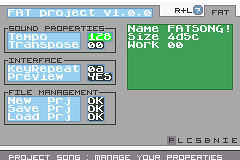
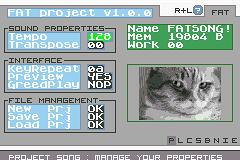
Documentation et smart allocate moins bourrin.

diff --git a/manual/FAT_documentation_FR.tex b/manual/FAT_documentation_FR.tex
@@ -782,9 +782,13 @@
 
         \paragraph{Transpose} Réglez la transposition de tout le projet.
         
-        \paragraph{"Keyrepeat" (temps de répétition)} Ce paramètre permet de régler le temps d'attente entre chaque appui d'une touche. Plus cette valeur est grande, plus l'interface est lente. 
+        \paragraph{"Keyrepeat" (temps de répétition)} Ce paramètre permet de régler le temps d'attente entre chaque appui d'une touche. Plus cette valeur est grande, plus l'interface est lente.
 
-        \paragraph{"New Prj"} Crée un nouveau projet. Attention, les données non enregistrées seront impitoyablement effacée. 
+        \paragraph{Preview} Réglez ce paramètre à YES pour demander à \FAT de jouer la note dès qu'elle est écrite.
+
+        \paragraph{GreedPlay} Si activé le GreedPlay force \FAT à toujours chercher à jouer la première séquence disponible dans un ensemble et ce peu importe la ligne sur laquelle vous vous trouvez. Ex : posez plusieurs séquences (avec des notes à lire) à la suite, de la ligne 0 à 5, puis positionnez vous sur la ligne 3. Pressez START. Si le greedPlay est activé, la lecture ne commencera pas depuis la ligne 3 mais depuis la 0.
+
+        \paragraph{"New Prj"} Crée un nouveau projet. Attention, les données non enregistrées seront impitoyablement effacées, écrasées, broyées, massacrées.
         
         \paragraph{"Save PRJ" (sauvegarder)}  Affiche l'écran de sauvegarde (cf \ref{filesystem}). Cette version de \FAT reste expérimentale en terme de gestion de la sauvegarde.
         
@@ -869,10 +873,68 @@
     \ColoredAnnotation{Cet écran n'est pas encore programmé. Pour ceux qui connaissent LSDJ, il s'agira de l'équivalent des TABLES}
     
     \subsection{L'écran LIVE}
-    
-    EPIC TODO
-    
-    \subsection{L'écran COMPOSER}  
+
+    Ici, vous allez pouvoir jouer votre chanson comme vous le voulez. C'est ce mode qui est à priviligier si vous voulez mouiller le maillot sur scène. Si vous préférez simplement appuyer sur START dans l'écran SONG et danser avec le public, libre à vous ! Le mode LIVE est là pour vous permettre de modifier la mécanique de vos morceaux.
+
+    \Image{images/screen_live}{1.0}{L'écran LIVE se présente comme l'écran SONG}
+
+    Le séquenceur est à nouveau affiché mais cette fois il n'est pas question d'éditer les séquences sur le tableau.
+    Par contre vous allez pouvoir démarrer chacun des channels dans l'ordre qui vous chante. Une fois un channel démarré, il est possible d'effectuer plusieurs actions :
+    \medskip
+    \begin{itemize}
+        \item{modifier le volume du channel}
+        \item{changer la transposition sur le channel}
+        \item{stopper sa lecture}
+    \end{itemize}
+    \medskip
+    Notez que l'écran LIVE propose deux modes : le mode MANUAL (MAN) et le mode AUTO (AUT).
+    En mode MANUAL, FAT n'avance PAS dans le séquenceur. La même séquence sur le channel est rejouée à l'infini: c'est à vous de faire progresser le morceau.
+    A l'inverse, en mode AUTO, FAT se comporte comme dans l'écran SONG : tous les channels en cours de lecture progressent normalement.
+    Attention, en mode AUTO, si aucun channel ne joue et que vous appuyez sur START, alors TOUS les channels se lancent et s'arrêtent en même temps.
+
+    % Configuration du tableau
+    \tablehead{\hline \rowcolor{headertab} {\bf Touche(s)} & {\bf Effet} \\ \hline}
+    \tabletail{\hline \multicolumn{2}{|l|} {\small ...} \\ \hline}
+    \tablelasttail{\hline}
+    \begin{supertabular}{|l|p{11cm}|}
+    \hline
+        {\bf SELECT} & Passer en mode popup \\
+        \hline
+        {\bf R+L} & Afficher l'écran d'aide \\
+        \hline
+        {\bf START} & MODE AUTO - SON STOPPÉ - Lance la lecture de tous les channels \\
+        \hline
+        {\bf START} & MODE AUTO - SON DEMARRÉ - Stoppe la lecture de tous les channels \\
+        \hline
+        {\bf START} & MODE MANUAL - Lance/arrête la lecture du channel sous le curseur \\
+        \hline
+        {\bf R+BAS} & Passer dans la partie configuration de l'écran (modification du volume, tsp, tempo et mode) \\
+        \hline
+        {\bf R+HAUT} & Passer dans la partie séquenceur de l'écran \\
+        \hline
+        {\bf A+DIRECTION} & DANS LA PARTIE CONFIGURATION - Modifie la valeur du paramètre sous le curseur \\
+    \hline
+    \end{supertabular}
+
+    \subsubsection{Application du volume}
+
+    Lorsque vous changez le volume sur le channel, \FAT calcul un nouveau volume à appliquer sur chaque note. \medskip
+
+    \begin{itemize}
+        \item{si la valeur est "df" dans l'écran LIVE, alors le volume de l'instrument ou celui d'une éventuelle commande est appliqué. "df" = "defined"}
+        \item{si la valeur est autre que "df", alors le volume est une moyenne calculée entre la valeur écrite dans l'instrument (ou dans une commande) et celle demandée dans le LIVE}
+    \end{itemize}
+    \medskip
+
+    Un volume de 00 n'éteint donc pas forcément le channel ! Il n'y a pour le moment pas de mode MUTE.
+
+    \subsubsection{Application du transpose}
+
+    Comme pour le volume, \FAT calcul la valeur de transpose à appliquer en fonction d'autres paramètres. La valeur de transpose à prendre en considération se calcule comme suit :
+
+    \ColoredAnnotation{transpose du projet + transpose sur le block + transpose sur le live = transpose}
+
+    \subsection{L'écran COMPOSER}
     
     Imaginez cet écran comme un mini-piano: le COMPOSER va transformer votre Gameboy Advance en machine a improviser des sons !
     
@@ -922,17 +984,21 @@
   
   \ColoredAnnotation{Désolé ! Pas beaucoup d'effets pour le moment: il va falloir s'en contenter pour l'heure. Plusieurs commandes sont aux programme et débarqueront dans les versions suivantes. Patience !}
   
-  \subsection{K (KILL)}
+  \subsection{KL (KilL)}
   
   Cette commande permet de stopper (kill = tuer) le son. 
-  \ColoredAnnotation{La valeur pour ce paramètre n'est pas encore prise en compte}
-  
+  \ColoredAnnotation{Pas de valeur possible pour le moment pour ce paramètre.}
+
+  \subsection{VO (VOlume)}
+
+  Cette commande permet de modifier le volume du son. \#captainobvious.
+
 %  \subsection{H (HOP!)}
   
  % Cette commande permet de sauter directement au block suivant. Elle peut permettre de créer des décalages de temps entre les blocks.
   %\ColoredAnnotation{La valeur pour ce paramètre n'est pas encore prise en compte}
   
-  \section{Backup de vos sauvegardes}\label{burger}
+  \section{(OBSOLETE) Backup de vos sauvegardes}\label{burger}
   
   \FAT est maintenant livré avec un outil permettant de gérer vos sauvegardes et de rapatrier vos morceaux sur votre ordinateur. \BURGER est un logiciel programmé en Java: il est multi-plateforme (GNU/Linux, Windows, Mac, autres...).
   \ColoredAnnotation{Utilisateur de LSDJ ? Alors \BURGER va vous rappeler quelque chose :) Il reprend exactement le principe de fonctionnement du LSDJManager permettant aussi de gérer les backups}

diff --git a/src/screen_blocks.h b/src/screen_blocks.h
@@ -363,7 +363,7 @@ void FAT_screenBlocks_pressOrHeldA() {
     switch (FAT_screenBlocks_currentSelectedColumn) {
         case SCREENBLOCKS_COLUMN_ID_BLK:
 
-            if (hel_PadQuery()->Held.L) {
+            if (hel_PadQuery()->Pressed.L) {
                 FAT_data_smartAllocateBlock(FAT_screenBlocks_currentSequenceId,
                         FAT_screenBlocks_currentSelectedLine);
             } else {

diff --git a/src/screen_song.h b/src/screen_song.h
@@ -312,7 +312,7 @@ void FAT_screenSong_pressB() {
  * \brief Cette fonction est dédiée à l'interaction avec la touche A. 
  */
 void FAT_screenSong_pressOrHeldA() {
-    if (hel_PadQuery()->Held.L) {
+    if (hel_PadQuery()->Pressed.L) {
         FAT_data_smartAllocateSequence(FAT_screenSong_currentSelectedColumn,
                 FAT_screenSong_currentSelectedLine);
     } else {
